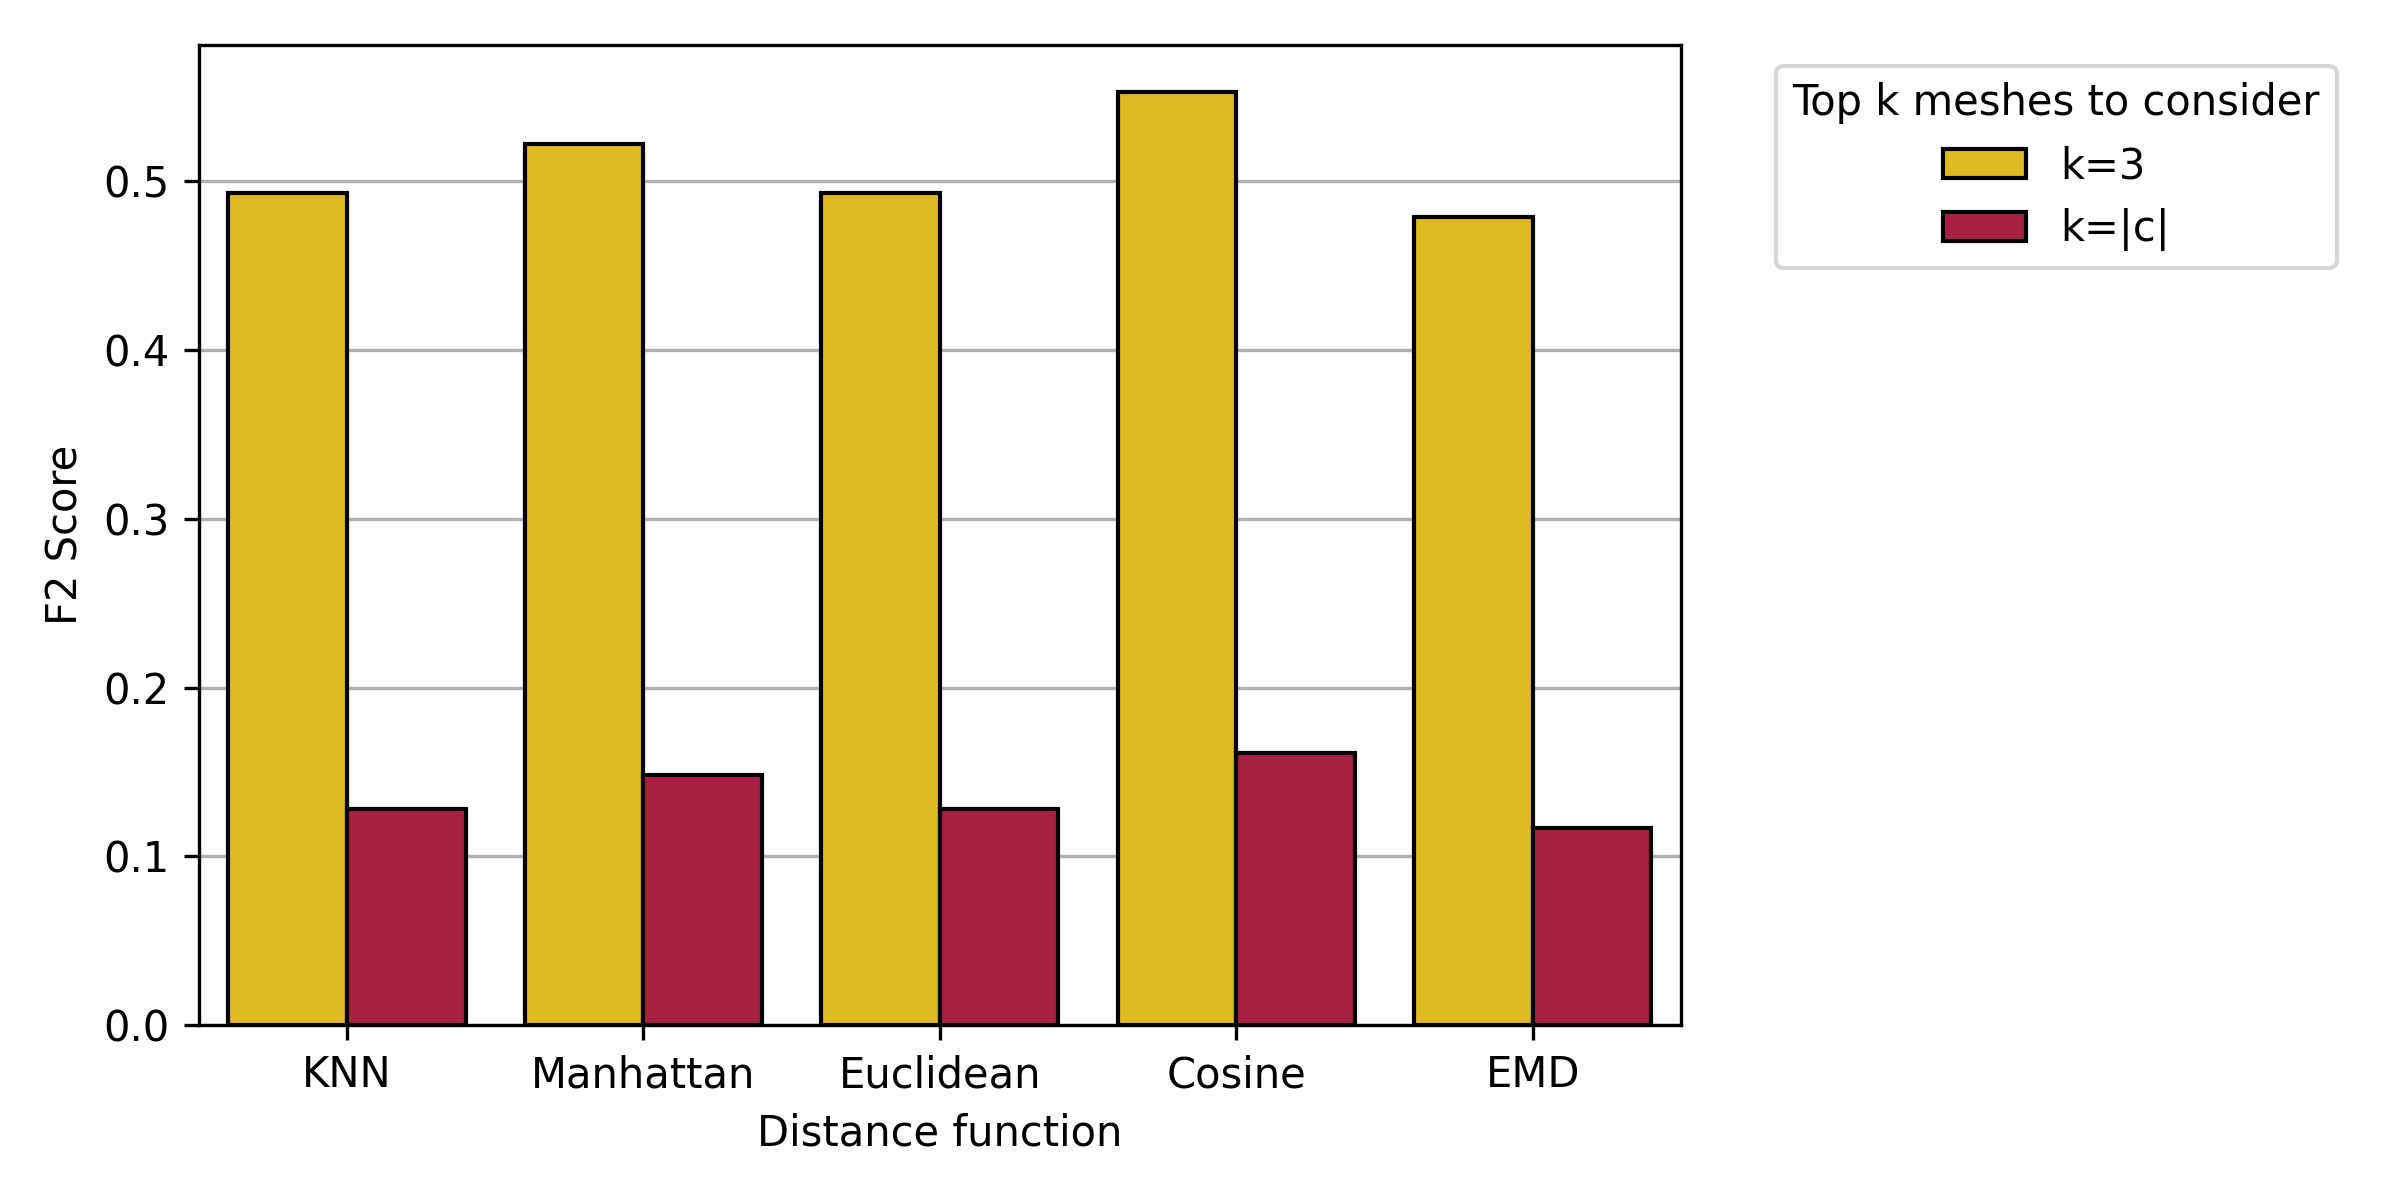
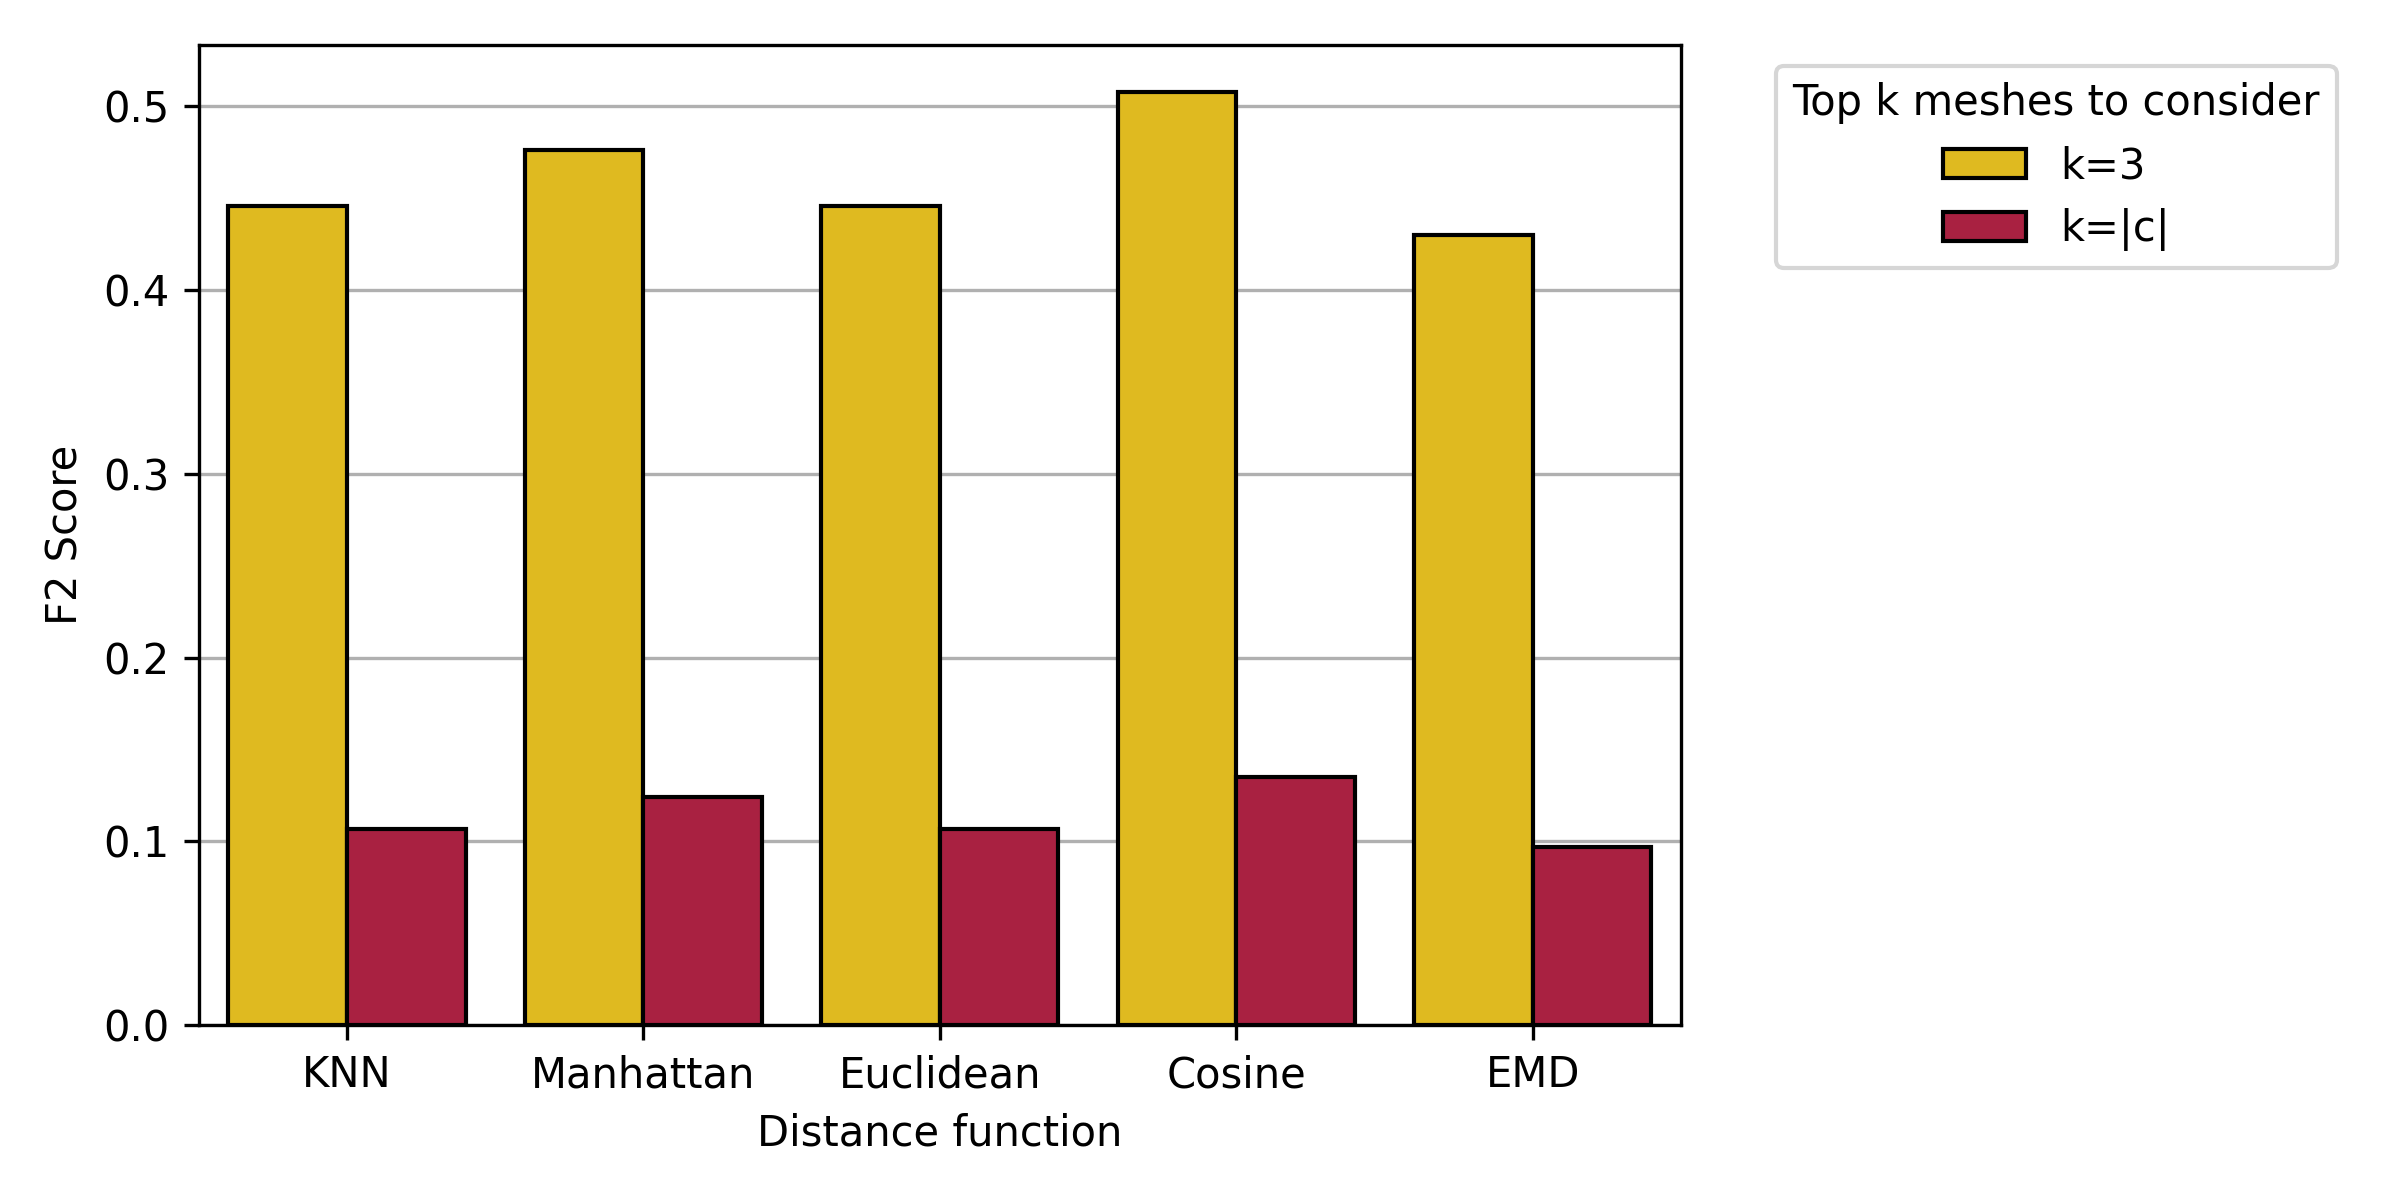
Now actually calculating FNs

diff --git a/Rorschach/evaluation/evaluate_max.py b/Rorschach/evaluation/evaluate_max.py
@@ -66,9 +66,13 @@ def calculate_perclass(query_results_path: str, plot_type: str, k: int = None):
         # Thus, the shapes at (database size minus k) are always 0
         y_true = np.concatenate((np.ones(query_size), not_retrieved_data))
 
-        # 1 for all retrieved shapes that have the correct category, 0 for all shapes not retrieved correctly
-        # And 0 for all shapes that are not retrieved at all
-        y_pred = np.concatenate((np.where(y_pred == query_class, 1, 0), not_retrieved_data))
+        # y_retrieved should be same length as y_true
+        y_retrieved = np.where(y_pred == query_class, 1, 0).astype(int)  # Number of retrieved shapes with either 0 or 1: TP + FP
+        y_missing_ones = np.ones(query_size - y_retrieved.sum(), dtype=int)  # Number of relevant shapes that are not retrieved: FN
+        y_zeros = np.zeros(not_retrieved_size - y_missing_ones.sum(), dtype=int)  # Number of shapes not retrieved that should be 0: TN
+        y_non_retrieved = np.concatenate((y_missing_ones, y_zeros))  # Non-retrieved shapes are either TN or FN
+
+        y_pred = np.concatenate((y_retrieved, y_non_retrieved))
 
         cm = confusion_matrix(y_true, y_pred, labels=[0, 1])  # Set labels as 0 and 1 to guarantee correct order
         TN, FP, FN, TP = cm.ravel()

diff --git a/Rorschach/evaluation/plot_results.py b/Rorschach/evaluation/plot_results.py
@@ -52,5 +52,10 @@ if __name__ == "__main__":
     df = pd.read_csv(fp_results)
     print(df.head())
 
+    plot_overall_metric(df, "Precision")
+    plot_overall_metric(df, "Recall")
+    plot_overall_metric(df, "Accuracy")
+    plot_overall_metric(df, "Sensitivity")
+    plot_overall_metric(df, "Specificity")
     plot_overall_metric(df, "F1 score")
     plot_overall_metric(df, "F2 score")
